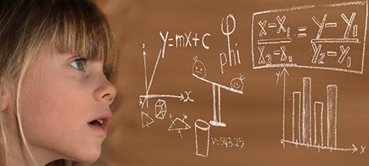
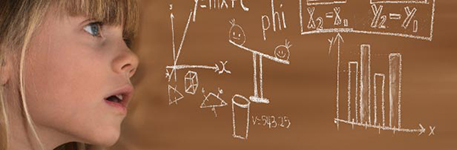
adjusting images frontpage

diff --git a/index.html b/index.html
@@ -62,7 +62,7 @@
                   <h3 class="button1">LEARN MORE</h3>
                     </div>
                 <div>
-                  <img src="/images/content/toy.png" alt="child playing with toy, hand view" class="img-auto-scale img-home-box2">
+                  <img src="/images/content/toy.jpg" alt="child playing with toy, hand view" class="img-auto-scale img-home-box2">
                 </div>
             </div>
             <div class="home-box3 bg-white">

diff --git a/stylesheets/index.css b/stylesheets/index.css
@@ -91,8 +91,15 @@ body {
     margin: 2em;
 }
 
+.img-home-box3 {
+    max-height: 150px;
+}
 .home-box2 {
     display: flex;
+}
+
+.img-home-box2 {
+    max-height: 200px;
 }
 
 .img-auto-scale {
